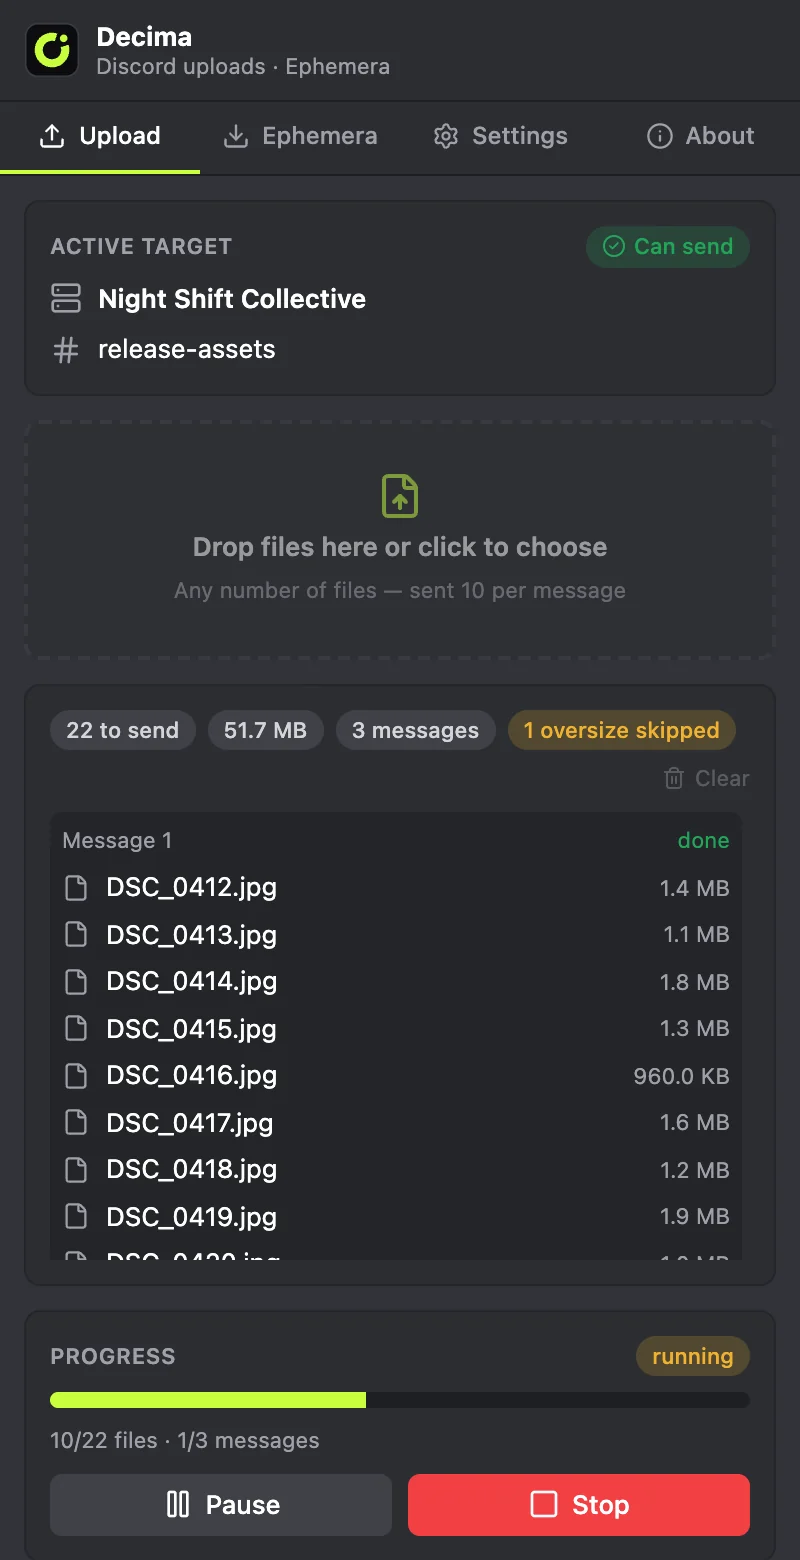
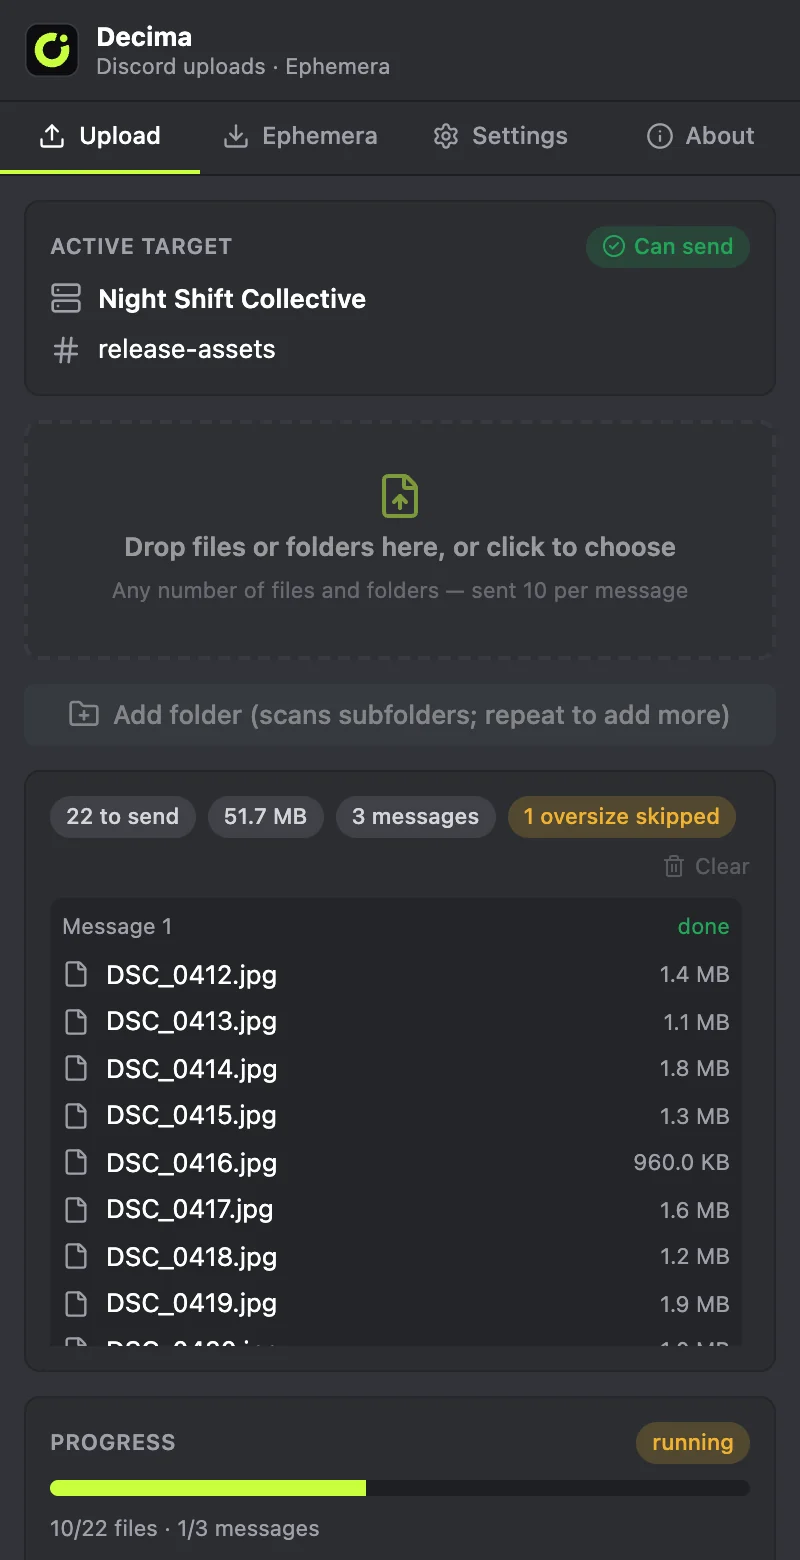
feat(site): show folder drop and Add folder, say each message waits for the last; capture picks Decima's own extension id

Changed region(s): [[0.0625, 0.4308, 0.9375, 0.9846], [0.1562, 0.3385, 0.8438, 0.4]]

diff --git a/site/index.html b/site/index.html
@@ -10,7 +10,7 @@
 <meta property="og:type" content="website">
 <meta property="og:title" content="Decima">
 <meta property="og:description" content="Pick any number of files. Decima posts them to Discord ten at a time.">
-<meta property="og:image" content="https://decima.kgb-record.cloud/assets/shots/panel-queue.webp?v=1dd8834a">
+<meta property="og:image" content="https://decima.kgb-record.cloud/assets/shots/panel-queue.webp?v=53d0bf74">
 <meta name="twitter:card" content="summary_large_image">
 <link rel="icon" href="favicon.ico?v=a632b4de" sizes="16x16 32x32 48x48">
 <link rel="icon" type="image/png" sizes="32x32" href="assets/favicon-32.png?v=041b18ae">
@@ -62,7 +62,7 @@
     </div>
     <figure class="hero-shot" aria-label="Decima side panel with a queue of 22 files split into three messages">
       <div class="hero-par"><div class="tilt">
-        <img src="assets/shots/panel-queue.webp?v=1dd8834a" alt="Decima side panel: target channel release-assets, 22 files queued in 3 messages" width="400" height="780" fetchpriority="high">
+        <img src="assets/shots/panel-queue.webp?v=53d0bf74" alt="Decima side panel: target channel release-assets, 22 files queued in 3 messages" width="400" height="780" fetchpriority="high">
       </div></div>
     </figure>
   </div>
@@ -89,19 +89,19 @@
       <div class="flow-rail" aria-hidden="true"><i></i><b></b><b></b><b></b></div>
       <ol class="flow-steps">
         <li>
-          <figure class="li-shot"><img src="assets/shots/panel-target.webp?v=2ac31083" alt="Side panel showing the active server and channel with a Can send badge" width="400" height="780" loading="lazy"></figure>
+          <figure class="li-shot"><img src="assets/shots/panel-target.webp?v=bfe5cc17" alt="Side panel showing the active server and channel with a Can send badge" width="400" height="780" loading="lazy"></figure>
           <h3>It knows where you are</h3>
           <p>Server and channel names appear before anything is sent. If you switch channels mid-run, <b class="nm">Decima</b> stops.</p>
         </li>
         <li>
-          <figure class="li-shot"><img src="assets/shots/panel-queue.webp?v=1dd8834a" alt="Queue of 22 files grouped into messages of ten" width="400" height="780" loading="lazy"></figure>
+          <figure class="li-shot"><img src="assets/shots/panel-queue.webp?v=53d0bf74" alt="Queue of 22 files grouped into messages of ten" width="400" height="780" loading="lazy"></figure>
           <h3>Files are grouped for you</h3>
-          <p>Add as many as you like. Each group of ten is shown as its own message, and oversize files are skipped before they fail.</p>
+          <p>Drop files or whole folders, subfolders included. Each group of ten is shown as its own message, and oversize files are skipped before they fail.</p>
         </li>
         <li>
-          <figure class="li-shot"><img src="assets/shots/panel-run.webp?v=c4bcaa01" alt="A run in progress at ten of 22 files with Pause and Stop" width="400" height="780" loading="lazy"></figure>
+          <figure class="li-shot"><img src="assets/shots/panel-run.webp?v=98c3a3fa" alt="A run in progress at ten of 22 files with Pause and Stop" width="400" height="780" loading="lazy"></figure>
           <h3>Pause, resume or stop</h3>
-          <p>Progress, a live log and a delay between messages keep the run calm. Stop any time.</p>
+          <p>Each message is sent only after Discord has accepted the one before it. Progress, a live log and a delay keep the run calm. Stop any time.</p>
         </li>
       </ol>
     </div>

diff --git a/README.md b/README.md
@@ -10,11 +10,12 @@ Pick 200 files once; the extension posts them as 20 consecutive messages while y
 
 - **Active context detection** — reads the current server and channel (or DM) from the Discord web app and shows it before anything is sent.
 - **Automatic batching** — splits files into groups of 1–10 and posts each group as one message.
-- **Side panel UI** — drag & drop, per-message grouping preview, progress bar, live log, Pause / Resume / Stop.
+- **Side panel UI** — drag & drop files or whole folders (subfolders are scanned; the **Add folder** button adds one folder per click), per-message grouping preview, progress bar, live log, Pause / Resume / Stop.
 - **Toolbar popup** — quick status, run progress and the most common settings.
 - **Options page** — files per message, delay between messages, size limit profile, caption.
 - **Size-limit profiles** — Free (10 MB), Nitro Basic (50 MB), Nitro (500 MB); oversize files can be skipped automatically.
 - **Optional caption** — attach text to the first or every message.
+- **One message at a time** — the next message starts only after Discord has accepted the previous one (Decima watches the send request; reload the Discord tab after updating the extension).
 - **Safety checks** — aborts if you switch channels mid-run, if the message box is missing, or if an upload times out.
 - **Large-file safe** — files are streamed to the page in 3 MB chunks to stay under Chrome's messaging limits.
 
@@ -142,7 +143,7 @@ To pin the browser and keep logins between runs, create a local `web-ext.config.
 
 1. Open the target server channel or DM in Discord.
 2. Open the side panel and confirm the **Active target** card shows the right server and channel.
-3. Drop or choose your files. They are previewed grouped by message.
+3. Drop or choose your files, or drop / add whole folders. They are previewed grouped by message.
 4. Adjust settings if needed, then click **Send**.
 5. Keep the side panel open until the run finishes. Use **Pause** or **Stop** at any time.
 
